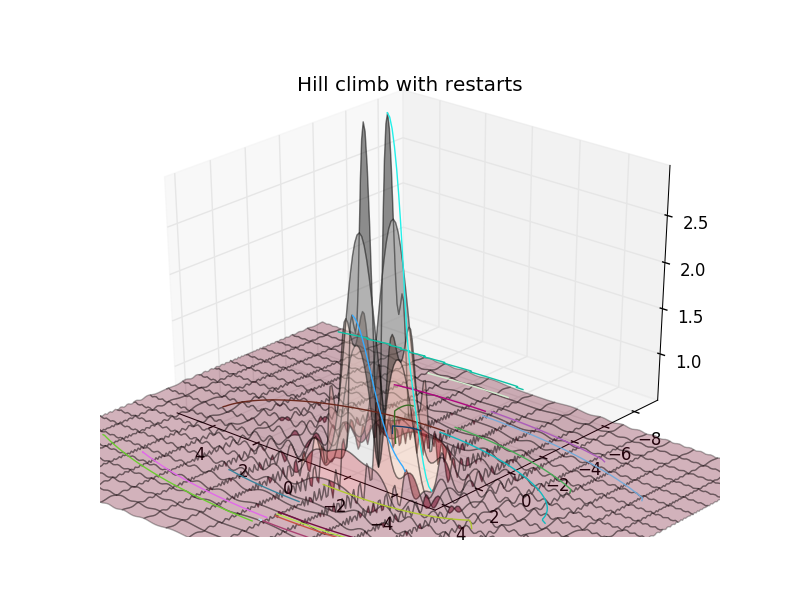
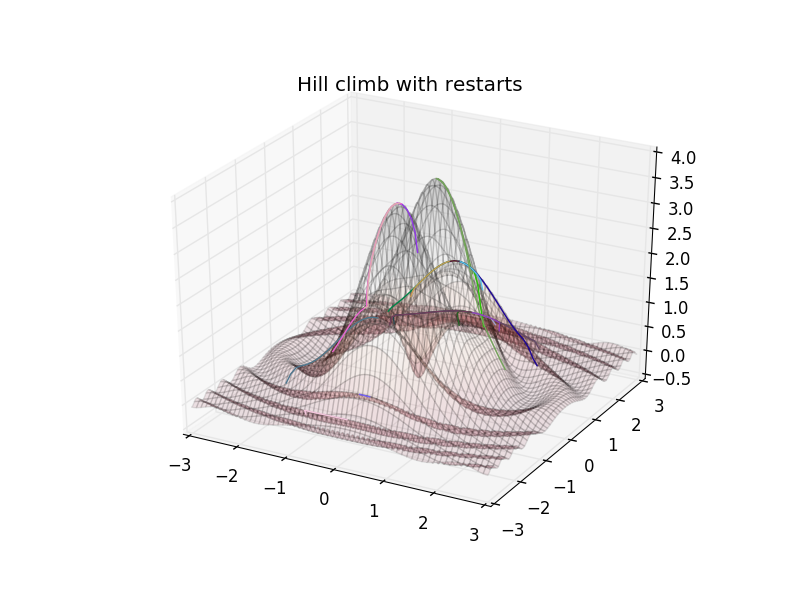
Update project to latest requirements

Changed region(s): [[0.125, 0.1809, 0.9062, 0.9045]]

diff --git a/proj2/Optimization.py b/proj2/Optimization.py
@@ -32,6 +32,19 @@ class Optimization:
         return {'x': uniform(-1/step_size, 1/step_size), 'y': uniform(-1/step_size, 1/step_size)}
 
     @staticmethod
+    def rand_coords(xmin: float, xmax: float, ymin: float, ymax: float) -> Dict[str, float]:
+        """
+        Returns random x,y coordinates between 1/step_size
+        :param xmin:
+        :param xmax:
+        :param ymin:
+        :param ymax:
+        :return:
+        """
+
+        return {'x': uniform(xmin, xmax), 'y': uniform(ymin, ymax)}
+
+    @staticmethod
     def calculate_func_at_degree(func: Callable[[float, float], float], step_size:float,
                                  x: float, y: float, deg: int) -> Tuple[float, float, float]:
         """
@@ -102,8 +115,8 @@ class Optimization:
         return r, g, b
 
     @staticmethod
-    def hill_climb(func: Callable[[float, float], float], step_size: float,
-                   start_x: float = None, start_y: float = None) -> Tuple[float, dict]:
+    def hill_climb(func: Callable[[float, float], float], step_size: float, xmin: float = None,
+                   xmax: float = None, ymin: float = None, ymax: float = None, x: float=None, y:float = None) -> Tuple[float, dict]:
         """
         Generalize hill climb algorithm
         :param func: function to call
@@ -113,13 +126,16 @@ class Optimization:
         :return:
         """
 
-        if start_x is None:
-            start_x = 0
-        if start_y is None:
-            start_y = 0
+        if xmin is None or xmax is None:
+            xmin = xmax = 0
+        if ymin is None or ymax is None:
+            ymin = ymax = 0
 
-        x = start_x
-        y = start_y
+        # If x and y are already set, use those values to hill climb
+        if x is None or y is None:
+            coords = Optimization.rand_coords(xmin, xmax, ymin, ymax)
+            x = coords.get('x', 0)
+            y = coords.get('y', 0)
 
         # Start with empty plot
         plotgraph = {
@@ -156,12 +172,17 @@ class Optimization:
 
     @staticmethod
     def hill_climb_random_restart(func: Callable[[float, float], float], step_size: float,
-                                  num_restarts: int) -> Tuple[float, List[dict]]:
+                                  num_restarts: int, xmin: float = None, xmax: float = None,
+                                  ymin: float = None, ymax: float = None) -> Tuple[float, List[dict]]:
         """
         Hill climbing with random restarts
         :param func: function to call
         :param step_size: step size
         :param num_restarts: how many times to restart
+        :param xmin:
+        :param xmax:
+        :param ymin:
+        :param ymax:
         :return:
         """
 
@@ -171,8 +192,8 @@ class Optimization:
             :return:
             """
 
-            coords = Optimization.rand_coords(step_size)
-            return Optimization.hill_climb(func, step_size, coords.get('x', 0), coords.get('y', 0))
+            coords = Optimization.rand_coords(xmin, xmax, ymin, ymax)
+            return Optimization.hill_climb(func, step_size, x=coords.get('x', 0), y=coords.get('y', 0))
 
         total_max = None
 
@@ -212,12 +233,17 @@ class Optimization:
     # TODO: Make this work correctly
     @staticmethod
     def simulated_annealing(func: Callable[[float, float], float], step_size: float,
-                            max_temp: float) -> Tuple[float, List[dict]]:
+                            max_temp: float, xmin: float = None, xmax: float = None,
+                            ymin: float = None, ymax: float = None) -> Tuple[float, List[dict]]:
         """
         Simulated annealing algorithm that allows climbing and decending based on a temperature
         :param func: function to call
         :param step_size: step size
         :param max_temp: max temperature
+        :param xmin:
+        :param xmax:
+        :param ymin:
+        :param ymax:
         :return:
         """
 
@@ -234,7 +260,7 @@ class Optimization:
             temp = max_temp
 
             # Random coordinates
-            coords = Optimization.rand_coords(step_size)
+            coords = Optimization.rand_coords(xmin, xmax, ymin, ymax)
 
             # Set the coordinates
             x = coords.get('x', 0)
@@ -265,11 +291,11 @@ class Optimization:
                     total_max = current
 
                 # Go in a random direction
-                local_x, local_y, next = Optimization.calculate_func_at_degree(func, step_size, x*uniform(0, 1),
+                local_x, local_y, highest = Optimization.calculate_func_at_degree(func, step_size, x*uniform(0, 1),
                                                                                y*uniform(0, 1), randint(0, 360))
 
                 # Get probability
-                probability = Optimization.annealing_probability(current, next, temp)
+                probability = Optimization.annealing_probability(current, highest, temp)
 
                 # Determine a threshold it must pass
                 threshold = uniform(0, 1)

diff --git a/proj2/Additional.py b/proj2/Additional.py
@@ -22,9 +22,15 @@ from typing import Callable, Tuple, List
 from mpl_toolkits.mplot3d import Axes3D
 import matplotlib.pyplot as plt
 from matplotlib import cm
+from math import floor, ceil
 from time import time
 import numpy as np
 
+
+class GraphSettings:
+    graph_resolution = 0.1
+    graph_alpha = 0.3
+    show_graph = False
 
 def color(tup: Tuple[int, int, int]) -> str:
     """
@@ -36,16 +42,22 @@ def color(tup: Tuple[int, int, int]) -> str:
     return '#%02x%02x%02x' % (tup[0], tup[1], tup[2])
 
 
-def create_graph(plot: List[dict], title: str, func: Callable[[float, float], float]) -> None:
+def create_graph(plot: List[dict], title: str, func: Callable[[float, float], float], xmin: float, xmax: float, ymin: float, ymax: float) -> None:
     """
     Create a 3D graph of plot data given
+
+    :param func:
     :param plot: expects dictionary {'color' :optional, 'points' :required}
     :param title: Graph title
+    :param xmin:
+    :param xmax:
+    :param ymin:
+    :param ymax:
     :return:
     """
 
     # Build 3D graphgenGraph
-    fig, ax = build(func, title, showgraph=True)
+    fig, ax = build(func, title, int(floor(xmin)), int(ceil(xmax)), int(floor(ymin)), int(ceil(ymax)))
 
     # For each plot iteration
     for idx, trial in enumerate(plot):
@@ -75,36 +87,39 @@ def build_result(func):
     return results
 
 
-def build(func: Callable[[float, float], float]=None, title: str='', showgraph: bool=False, graphsize: int=10) -> Tuple:
+def build(func: Callable[[float, float], float]=None, title: str='', xmin: int=-10,
+          xmax: int=10, ymin: int=-10, ymax: int=10) -> Tuple:
     """
     Build the graph with horribly optimized generation
     :param func: function to determine z value
     :param title: title of graph
-    :param showgraph: Show the graph of the function
-    :param graphsize: The range of the graph (-size, -size) to (size, size)
+    :param xmin:
+    :param xmax:
+    :param ymin:
+    :param ymax:
     :return:
     """
     # Build 3D graph
     fig = plt.figure()
     ax = fig.add_subplot(111, projection='3d', title=title)
 
-    if showgraph:
+    if GraphSettings.show_graph:
         plot = {
             'x': [],
             'y': [],
             'z': []
         }
 
-        #Generate 3d-graph plot
-        for x in np.arange(-graphsize, graphsize, 0.1):
+        # Generate 3d-graph plot
+        for x in np.arange(xmin, xmax, GraphSettings.graph_resolution):
             plot['x'].append([])
             plot['y'].append([])
             plot['z'].append([])
-            for y in np.arange(-graphsize, graphsize, 0.1):
+            for y in np.arange(ymin, ymax, GraphSettings.graph_resolution):
                 plot['x'][-1].append(x)
                 plot['y'][-1].append(y)
                 plot['z'][-1].append(func(x, y))
 
-        ax.plot_surface(plot['x'], plot['y'], plot['z'], cmap=cm.RdGy, alpha=0.3)
+        ax.plot_surface(plot['x'], plot['y'], plot['z'], cmap=cm.RdGy, alpha=GraphSettings.graph_alpha)
 
     return fig, ax

diff --git a/proj2/driver.py b/proj2/driver.py
@@ -14,7 +14,7 @@ Dependencies:
     Additional - Graph generating
     math - For defining the 2d function
 """
-from Additional import create_graph, build_result
+from Additional import create_graph, build_result, GraphSettings
 from Optimization import Optimization
 import math
 
@@ -40,6 +40,15 @@ def main():
     :return:
     """
 
+    xmin = -2.5
+    xmax = 2.5
+    ymin = -2.5
+    ymax = 2.5
+
+    GraphSettings.graph_resolution = 0.01
+    GraphSettings.graph_alpha = 0.1
+    GraphSettings.show_graph = True
+
     # Variables to define
     # How far should each step be
     step_size = 0.1
@@ -48,26 +57,28 @@ def main():
     # Max temperature
     max_temperature = 50
 
+
+
     # Result holder
     results = dict(hill_climb={}, hill_climb_random={}, simulated_annealing={})
 
     # Run tests
     print('Running hill climb...', end='')
-    results['hill_climb'] = build_result(lambda: Optimization.hill_climb(z, step_size))
+    results['hill_climb'] = build_result(lambda: Optimization.hill_climb(z, step_size, xmin, xmax, ymin, ymax))
     print(' DONE')
 
     print('Running hill climb with restart...', end='')
-    results['hill_climb_random'] = build_result(lambda: Optimization.hill_climb_random_restart(z, step_size, restarts))
+    results['hill_climb_random'] = build_result(lambda: Optimization.hill_climb_random_restart(z, step_size, restarts, xmin, xmax, ymin, ymax))
     print(' DONE')
 
     print('Running simulated annealing...', end='')
-    results['simulated_annealing'] = build_result(lambda: Optimization.simulated_annealing(z, step_size, max_temperature))
+    results['simulated_annealing'] = build_result(lambda: Optimization.simulated_annealing(z, step_size, max_temperature, xmin, xmax, ymin, ymax))
     print(' DONE')
 
     # Create the graphs
-    create_graph([{'color': (255, 0, 0), 'points': results['hill_climb']['plot']}], 'Hill Climb', z)
-    create_graph(results['hill_climb_random']['plot'], 'Hill climb with restarts', z)
-    create_graph(results['simulated_annealing']['plot'], 'Simulated Annealing', z)
+    create_graph([{'color': (255, 0, 0), 'points': results['hill_climb']['plot']}], 'Hill Climb', z, xmin, xmax, ymin, ymax)
+    create_graph(results['hill_climb_random']['plot'], 'Hill climb with restarts', z, xmin, xmax, ymin, ymax)
+    create_graph(results['simulated_annealing']['plot'], 'Simulated Annealing', z, xmin, xmax, ymin, ymax)
 
     # Make variables smaller
     hc = results['hill_climb']
